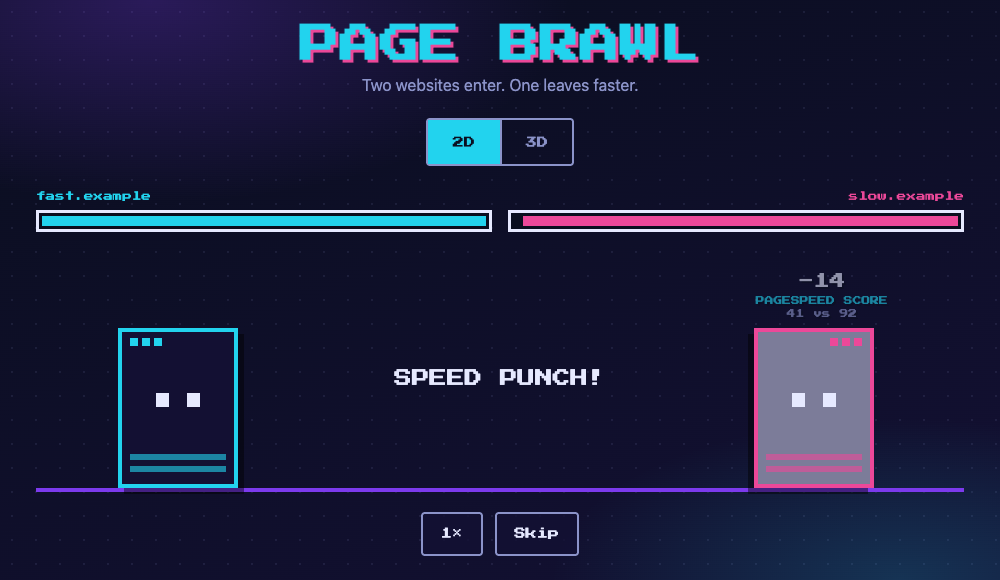
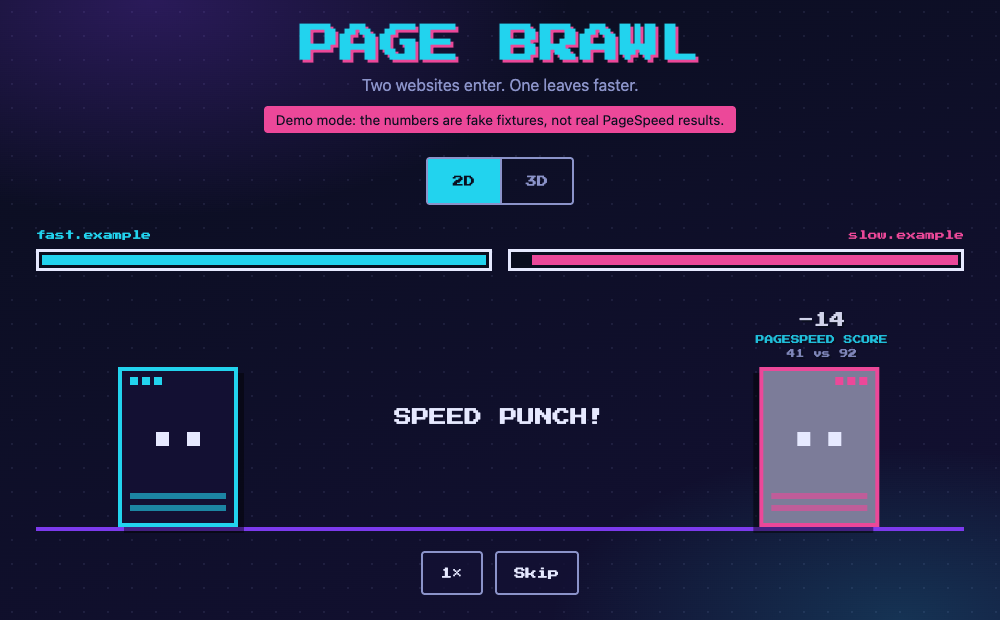
chore: set production domain, show light pages in kB, refresh README images
Social meta tags and the README now point to pagebrawl.vercel.app; a 2.3 kB page
no longer shows as '0.0 MB'. Screenshots were retaken with the new demo label.

diff --git a/src/components/format.test.ts b/src/components/format.test.ts
@@ -1,5 +1,5 @@
 import { describe, expect, it } from 'vitest';
-import { formatMegabytes, formatMetric, formatSeconds } from './format';
+import { formatBytes, formatMegabytes, formatMetric, formatSeconds } from './format';
 
 describe('format', () => {
   it('formats milliseconds as seconds', () => {
@@ -13,11 +13,24 @@ describe('format', () => {
   });
 });
 
+describe('formatBytes', () => {
+  it('uses kB below 1 MB and MB above', () => {
+    expect(formatBytes(2_324)).toBe('2.3 kB');
+    expect(formatBytes(9_999)).toBe('10.0 kB');
+    expect(formatBytes(10_000)).toBe('10 kB');
+    expect(formatBytes(900_000)).toBe('900 kB');
+    expect(formatBytes(1_000_000)).toBe('1.0 MB');
+    expect(formatBytes(7_500_000)).toBe('7.5 MB');
+  });
+});
+
 describe('formatMetric', () => {
   it('formats each metric the way the result card shows it', () => {
     expect(formatMetric('performanceScore', 92)).toBe('92');
     expect(formatMetric('lcpMs', 1800)).toBe('1.8 s');
-    expect(formatMetric('totalBytes', 900_000)).toBe('0.9 MB');
+    expect(formatMetric('totalBytes', 900_000)).toBe('900 kB');
+    expect(formatMetric('totalBytes', 2_324)).toBe('2.3 kB');
+    expect(formatMetric('totalBytes', 1_460_000)).toBe('1.5 MB');
     expect(formatMetric('requests', 38)).toBe('38');
     expect(formatMetric('tbtMs', 120)).toBe('120 ms');
     expect(formatMetric('cls', 0.02)).toBe('0.02');

diff --git a/src/components/ResultCard.tsx b/src/components/ResultCard.tsx
@@ -3,7 +3,7 @@ import type { FighterId, MatchResult, MetricKey } from '../engine/types';
 import { buildChallengeLink } from '../state/challenge-link';
 import { copyText, shareLink } from '../state/share';
 import type { ShareOutcome } from '../state/share';
-import { formatMegabytes, formatMetric, formatSeconds } from './format';
+import { formatBytes, formatMetric, formatSeconds } from './format';
 import './result-card.css';
 
 type Row = { key: MetricKey; label: string; format: (value: number) => string };
@@ -11,7 +11,7 @@ type Row = { key: MetricKey; label: string; format: (value: number) => string };
 const ROWS: readonly Row[] = [
   { key: 'performanceScore', label: 'Score', format: String },
   { key: 'lcpMs', label: 'LCP', format: formatSeconds },
-  { key: 'totalBytes', label: 'Weight', format: formatMegabytes },
+  { key: 'totalBytes', label: 'Weight', format: formatBytes },
   { key: 'requests', label: 'Requests', format: String },
   { key: 'tbtMs', label: 'Blocking', format: (value) => formatMetric('tbtMs', value) },
   { key: 'cls', label: 'Layout shift', format: (value) => formatMetric('cls', value) },

diff --git a/index.html b/index.html
@@ -18,14 +18,13 @@
       property="og:description"
       content="Two real websites fight with their real performance metrics. Pick your fighters and watch the match."
     />
-    <!-- TODO(deploy): replace page-brawl.vercel.app with the real production domain (og:url, og:image, twitter:image). -->
-    <meta property="og:url" content="https://page-brawl.vercel.app/" />
-    <meta property="og:image" content="https://page-brawl.vercel.app/og-image.png" />
+    <meta property="og:url" content="https://pagebrawl.vercel.app/" />
+    <meta property="og:image" content="https://pagebrawl.vercel.app/og-image.png" />
     <meta property="og:image:width" content="1200" />
     <meta property="og:image:height" content="630" />
     <meta property="og:image:alt" content="Page Brawl: two pixel-art browser windows facing each other" />
     <meta name="twitter:card" content="summary_large_image" />
-    <meta name="twitter:image" content="https://page-brawl.vercel.app/og-image.png" />
+    <meta name="twitter:image" content="https://pagebrawl.vercel.app/og-image.png" />
   </head>
   <body>
     <div id="root"></div>

diff --git a/src/components/format.ts b/src/components/format.ts
@@ -8,9 +8,15 @@ export function formatMegabytes(bytes: number): string {
   return `${(bytes / 1_000_000).toFixed(1)} MB`;
 }
 
+/** Page weight: kB for light pages (a 2.3 kB page is not "0.0 MB"), MB from 1 MB up. */
+export function formatBytes(bytes: number): string {
+  if (bytes >= 1_000_000) return formatMegabytes(bytes);
+  return `${(bytes / 1000).toFixed(bytes < 10_000 ? 1 : 0)} kB`;
+}
+
 export function formatMetric(key: MetricKey, value: number): string {
   if (key === 'lcpMs') return formatSeconds(value);
-  if (key === 'totalBytes') return formatMegabytes(value);
+  if (key === 'totalBytes') return formatBytes(value);
   if (key === 'tbtMs') return `${value} ms`;
   if (key === 'cls') return String(Number(value.toFixed(3)));
   return String(value);

diff --git a/README.md b/README.md
@@ -17,9 +17,10 @@ heavyweight champion.
 
 ## Live demo
 
-<!-- TODO: add the production URL here, e.g. https://page-brawl.vercel.app -->
+**[pagebrawl.vercel.app](https://pagebrawl.vercel.app)**
 
-Until it is deployed, run it locally: it takes a minute and needs no API key ([see below](#run-it-locally)).
+Real analyses take a few seconds up to under a minute. Prefer to try it offline? Run it locally in a minute with no
+API key ([see below](#run-it-locally)).
 
 ## Features
 
@@ -180,8 +181,8 @@ More detail: [`docs/ARCHITECTURE.md`](docs/ARCHITECTURE.md) (structure, API cont
    `VITE_USE_MOCK` unset (or `false`) in production: only the exact value `true` switches to fake data.
 3. Deploy. `vercel.json` sets the `/api/analyze` function to a 60 s `maxDuration`. If your plan caps it lower,
    lower it too (the function itself gives up after 55 s).
-4. In `index.html`, replace the placeholder domain `page-brawl.vercel.app` (`og:url`, `og:image`,
-   `twitter:image`) with your real one so link previews work.
+4. In `index.html`, set your real domain in `og:url`, `og:image` and `twitter:image` (they point to
+   `pagebrawl.vercel.app`) so link previews work.
 
 ## Accessibility and motion
 
